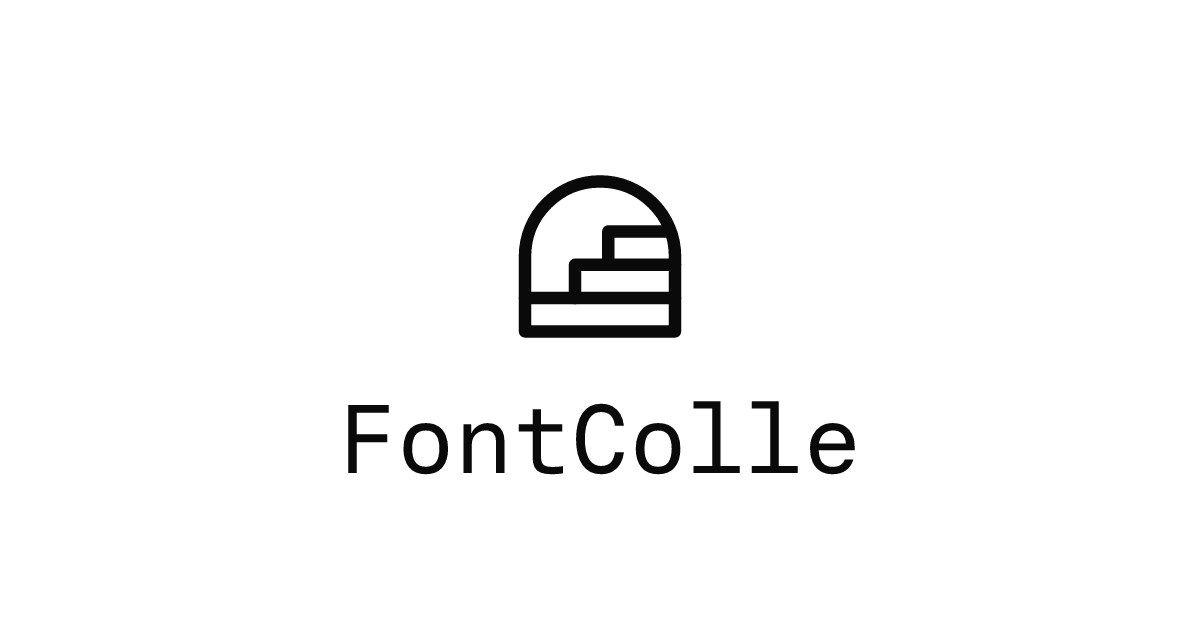
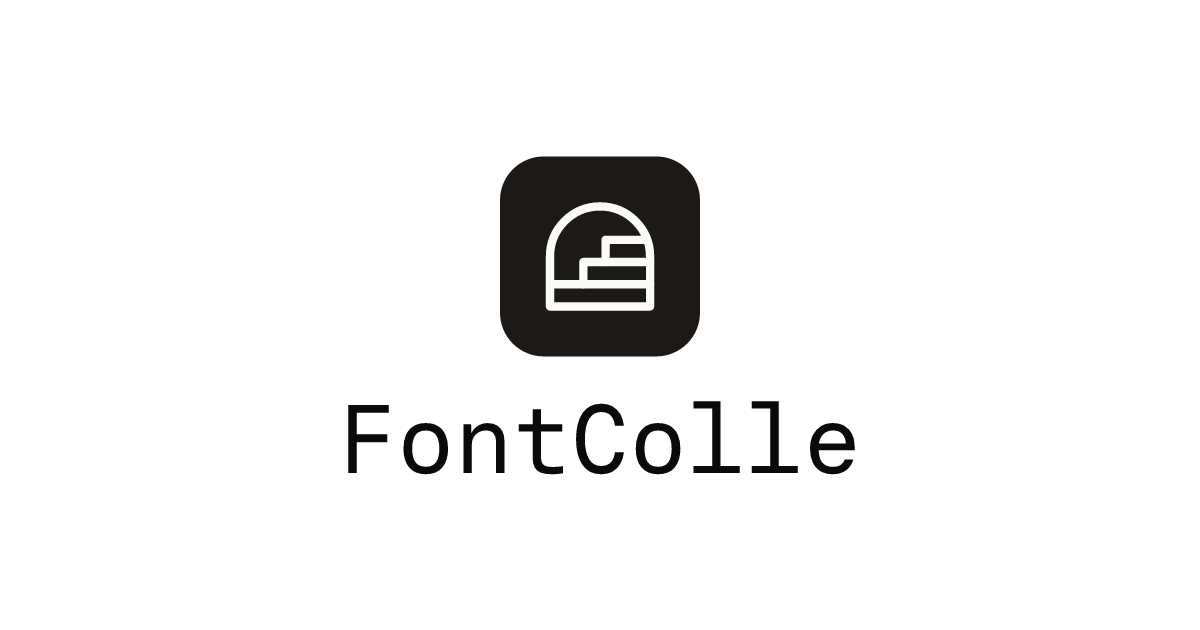
chore: add a dialog shadow, drop two lint suppressions, refresh the cover
The quartile keys and the scroll-restore deps can be expressed properly, so the
biome-ignore lines go away rather than being re-explained.

Changed region(s): [[0.4008, 0.2413, 0.5858, 0.573]]

diff --git a/src/components/ui/dialog.tsx b/src/components/ui/dialog.tsx
@@ -51,7 +51,7 @@ function DialogContent({
       <DialogPrimitive.Popup
         data-slot="dialog-content"
         className={cn(
-          "fixed top-1/2 left-1/2 z-50 grid w-full max-w-[calc(100%-2rem)] -translate-x-1/2 -translate-y-1/2 gap-4 rounded-xl bg-popover p-4 text-sm text-popover-foreground ring-1 ring-foreground/10 duration-base ease-snap outline-none sm:max-w-sm data-open:animate-in data-open:fade-in-0 data-open:zoom-in-95 data-closed:animate-out data-closed:fade-out-0 data-closed:zoom-out-95",
+          "fixed top-1/2 left-1/2 z-50 grid w-full max-w-[calc(100%-2rem)] -translate-x-1/2 -translate-y-1/2 gap-4 rounded-xl bg-popover p-4 text-sm text-popover-foreground shadow-lg ring-1 ring-foreground/10 duration-base ease-snap outline-none sm:max-w-sm data-open:animate-in data-open:fade-in-0 data-open:zoom-in-95 data-closed:animate-out data-closed:fade-out-0 data-closed:zoom-out-95",
           className
         )}
         {...props}

diff --git a/src/components/filter/metrics-section.tsx b/src/components/filter/metrics-section.tsx
@@ -164,12 +164,11 @@ function MetricRangeRow({
         label={spec.label}
       />
       <div className="grid grid-cols-5 gap-1">
-        {quartiles.map((q, i) => {
+        {quartiles.map((q, qi) => {
           const active = value != null && rangesEqual(value, q);
           return (
             <Tooltip
-              // biome-ignore lint/suspicious/noArrayIndexKey: fixed 4-quartile list
-              key={i}
+              key={`${q[0]}-${q[1]}`}
               content={
                 <>
                   {formatMetricValue(spec.key, q[0])} –{" "}
@@ -190,7 +189,7 @@ function MetricRangeRow({
                     : "text-foreground hover:bg-muted"
                 )}
               >
-                Q{i + 1}
+                Q{qi + 1}
               </button>
             </Tooltip>
           );

diff --git a/src/lib/use-scroll-reset.ts b/src/lib/use-scroll-reset.ts
@@ -5,7 +5,7 @@ export function useScrollReset<T extends HTMLElement>() {
   const ref = useRef<T>(null);
   const pathname = useRouterState({ select: (s) => s.location.pathname });
 
-  // biome-ignore lint/correctness/useExhaustiveDependencies: pathname is the trigger, not read in the body, re-zero the container whenever the route changes.
+  // biome-ignore lint/correctness/useExhaustiveDependencies: pathname is a trigger dep — not read in the body, but a route change must re-zero the scroll position.
   useEffect(() => {
     if (ref.current) ref.current.scrollTop = 0;
   }, [pathname]);

diff --git a/src/lib/use-list-scroll-restore.ts b/src/lib/use-list-scroll-restore.ts
@@ -14,7 +14,6 @@ export function useListScrollRestore(
     return () => el.removeEventListener("scroll", onScroll);
   }, [scrollRef, listScrollY]);
 
-  // biome-ignore lint/correctness/useExhaustiveDependencies: run once on mount.
   useEffect(() => {
     const target = listScrollY.current;
     if (target <= 0) return;
@@ -31,5 +30,5 @@ export function useListScrollRestore(
     };
     raf = requestAnimationFrame(tick);
     return () => cancelAnimationFrame(raf);
-  }, []);
+  }, [scrollRef, listScrollY]);
 }
